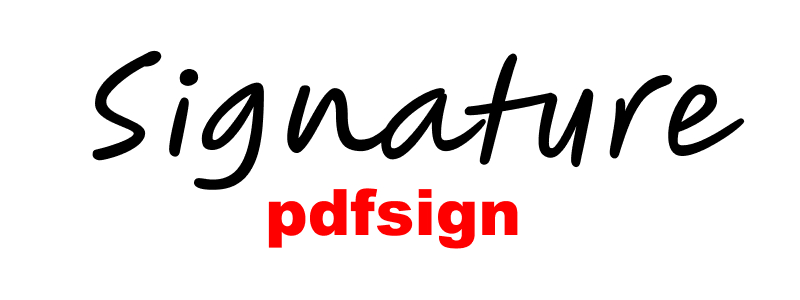
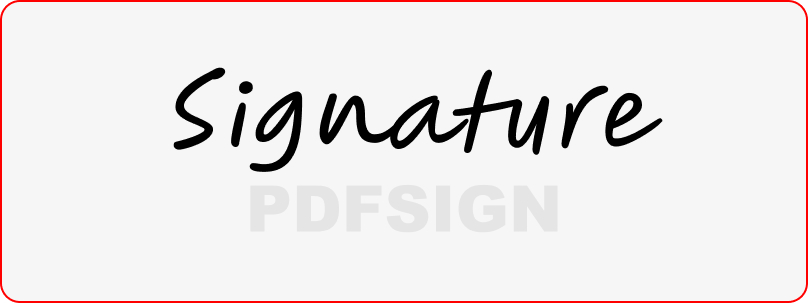
Implement image watermark

Changed region(s): [[0.0938, 0.15, 0.9375, 0.84], [0.0, 0.93, 1.0, 1.0], [0.0, 0.0, 1.0, 0.06]]

diff --git a/sign/appearance.go b/sign/appearance.go
@@ -7,13 +7,6 @@ import (
 	_ "image/jpeg" // register JPEG format
 )
 
-func (context *SignContext) createAppearance(rect [4]float64) ([]byte, error) {
-	if len(context.SignData.Appearance.Image) > 0 {
-		return context.createImageAppearance(rect)
-	}
-	return context.createTextAppearance(rect)
-}
-
 // Helper functions for PDF resource components
 
 // writeAppearanceHeader writes the header for the appearance stream.
@@ -49,7 +42,7 @@ func writeFormTypeAndLength(buffer *bytes.Buffer, streamLength int) {
 	buffer.WriteString(">>\n")
 }
 
-func writeBufferStream(buffer *bytes.Buffer, stream []byte) {
+func writeAppearanceStreamBuffer(buffer *bytes.Buffer, stream []byte) {
 	buffer.WriteString("stream\n")
 	buffer.Write(stream)
 	buffer.WriteString("endstream\n")
@@ -129,7 +122,7 @@ func drawImage(buffer *bytes.Buffer, rectWidth, rectHeight float64) {
 	buffer.WriteString("Q\n")       // Restore graphics state
 }
 
-func (context *SignContext) createTextAppearance(rect [4]float64) ([]byte, error) {
+func (context *SignContext) createAppearance(rect [4]float64) ([]byte, error) {
 	rectWidth := rect[2] - rect[0]
 	rectHeight := rect[3] - rect[1]
 
@@ -137,13 +130,8 @@ func (context *SignContext) createTextAppearance(rect [4]float64) ([]byte, error
 		return nil, fmt.Errorf("invalid rectangle dimensions: width %.2f and height %.2f must be greater than 0", rectWidth, rectHeight)
 	}
 
-	text := context.SignData.Signature.Info.Name
-
-	fontSize, textX, textY := computeTextSizeAndPosition(text, rectWidth, rectHeight)
-
-	var appearance_stream_buffer bytes.Buffer
-
-	drawText(&appearance_stream_buffer, text, fontSize, textX, textY)
+	hasImage := len(context.SignData.Appearance.Image) > 0
+	shouldDisplayText := context.SignData.Appearance.ImageAsWatermark || !hasImage
 
 	// Create the appearance XObject
 	var appearance_buffer bytes.Buffer
@@ -151,51 +139,44 @@ func (context *SignContext) createTextAppearance(rect [4]float64) ([]byte, error
 
 	// Resources dictionary with font
 	appearance_buffer.WriteString("  /Resources <<\n")
-	createFontResource(&appearance_buffer)
+
+	if hasImage {
+		// Create and add the image XObject
+		imageStream, err := context.createImageXObject()
+		if err != nil {
+			return nil, fmt.Errorf("failed to create image XObject: %w", err)
+		}
+
+		imageObjectId, err := context.addObject(imageStream)
+		if err != nil {
+			return nil, fmt.Errorf("failed to add image object: %w", err)
+		}
+
+		createImageResource(&appearance_buffer, imageObjectId)
+	}
+
+	if shouldDisplayText {
+		createFontResource(&appearance_buffer)
+	}
+
 	appearance_buffer.WriteString("  >>\n")
 
-	writeFormTypeAndLength(&appearance_buffer, appearance_stream_buffer.Len())
-
-	writeBufferStream(&appearance_buffer, appearance_stream_buffer.Bytes())
-
-	return appearance_buffer.Bytes(), nil
-}
-
-func (context *SignContext) createImageAppearance(rect [4]float64) ([]byte, error) {
-	rectWidth := rect[2] - rect[0]
-	rectHeight := rect[3] - rect[1]
-
-	if rectWidth < 1 || rectHeight < 1 {
-		return nil, fmt.Errorf("invalid rectangle dimensions: width %.2f and height %.2f must be greater than 0", rectWidth, rectHeight)
-	}
-
-	// Create and add the image XObject
-	imageStream, err := context.createImageXObject()
-	if err != nil {
-		return nil, fmt.Errorf("failed to create image XObject: %w", err)
-	}
-
-	imageObjectId, err := context.addObject(imageStream)
-	if err != nil {
-		return nil, fmt.Errorf("failed to add image object: %w", err)
-	}
-
+	// Create the appearance stream
 	var appearance_stream_buffer bytes.Buffer
 
-	drawImage(&appearance_stream_buffer, rectWidth, rectHeight)
+	if hasImage {
+		drawImage(&appearance_stream_buffer, rectWidth, rectHeight)
+	}
 
-	// Create the appearance XObject
-	var appearance_buffer bytes.Buffer
-	writeAppearanceHeader(&appearance_buffer, rectWidth, rectHeight)
-
-	// Resources dictionary with XObject
-	appearance_buffer.WriteString("  /Resources <<\n")
-	createImageResource(&appearance_buffer, imageObjectId)
-	appearance_buffer.WriteString("  >>\n")
+	if shouldDisplayText {
+		text := context.SignData.Signature.Info.Name
+		fontSize, textX, textY := computeTextSizeAndPosition(text, rectWidth, rectHeight)
+		drawText(&appearance_stream_buffer, text, fontSize, textX, textY)
+	}
 
 	writeFormTypeAndLength(&appearance_buffer, appearance_stream_buffer.Len())
 
-	writeBufferStream(&appearance_buffer, appearance_stream_buffer.Bytes())
+	writeAppearanceStreamBuffer(&appearance_buffer, appearance_stream_buffer.Bytes())
 
 	return appearance_buffer.Bytes(), nil
 }

diff --git a/sign/sign_test.go b/sign/sign_test.go
@@ -618,3 +618,55 @@ func TestSignPDFWithTwoImages(t *testing.T) {
 
 	verifySignedFile(t, secondSignature, filepath.Base(tbsFile))
 }
+
+// TestSignPDFWithWatermarkImage tests signing a PDF with an image and text above
+func TestSignPDFWithWatermarkImage(t *testing.T) {
+	cert, pkey := loadCertificateAndKey(t)
+	inputFilePath := "../testfiles/testfile12.pdf"
+	originalFileName := filepath.Base(inputFilePath)
+
+	// Read the signature image file
+	signatureImage, err := os.ReadFile("../testfiles/pdfsign-signature-watermark.jpg")
+	if err != nil {
+		t.Fatalf("Failed to read signature image: %s", err.Error())
+	}
+
+	tmpfile, err := os.CreateTemp("", t.Name())
+	if err != nil {
+		t.Fatalf("%s", err.Error())
+	}
+	if !testing.Verbose() {
+		defer os.Remove(tmpfile.Name())
+	}
+
+	err = SignFile(inputFilePath, tmpfile.Name(), SignData{
+		Signature: SignDataSignature{
+			Info: SignDataSignatureInfo{
+				Name:        "James SuperSmith",
+				Location:    "Somewhere",
+				Reason:      "Test with visible signature and watermark image",
+				ContactInfo: "None",
+				Date:        time.Now().Local(),
+			},
+			CertType:   ApprovalSignature,
+			DocMDPPerm: AllowFillingExistingFormFieldsAndSignaturesPerms,
+		},
+		Appearance: Appearance{
+			Visible:          true,
+			LowerLeftX:       400,
+			LowerLeftY:       50,
+			UpperRightX:      600,
+			UpperRightY:      125,
+			Image:            signatureImage, // Use the signature image
+			ImageAsWatermark: true,           // Set the image as a watermark
+		},
+		DigestAlgorithm: crypto.SHA512,
+		Signer:          pkey,
+		Certificate:     cert,
+	})
+	if err != nil {
+		t.Fatalf("%s: %s", originalFileName, err.Error())
+	}
+
+	verifySignedFile(t, tmpfile, originalFileName)
+}
